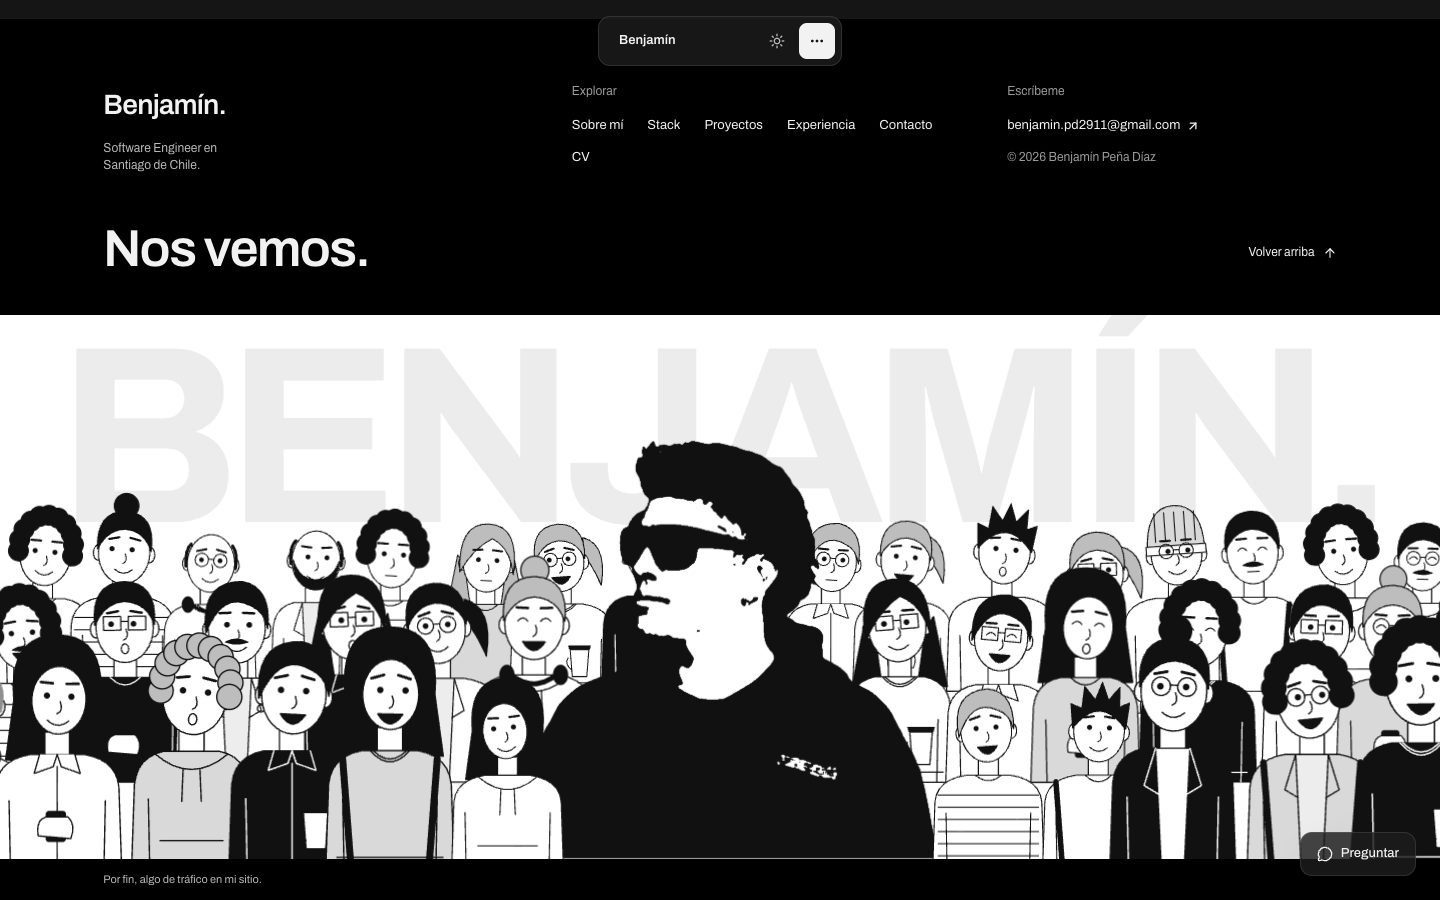
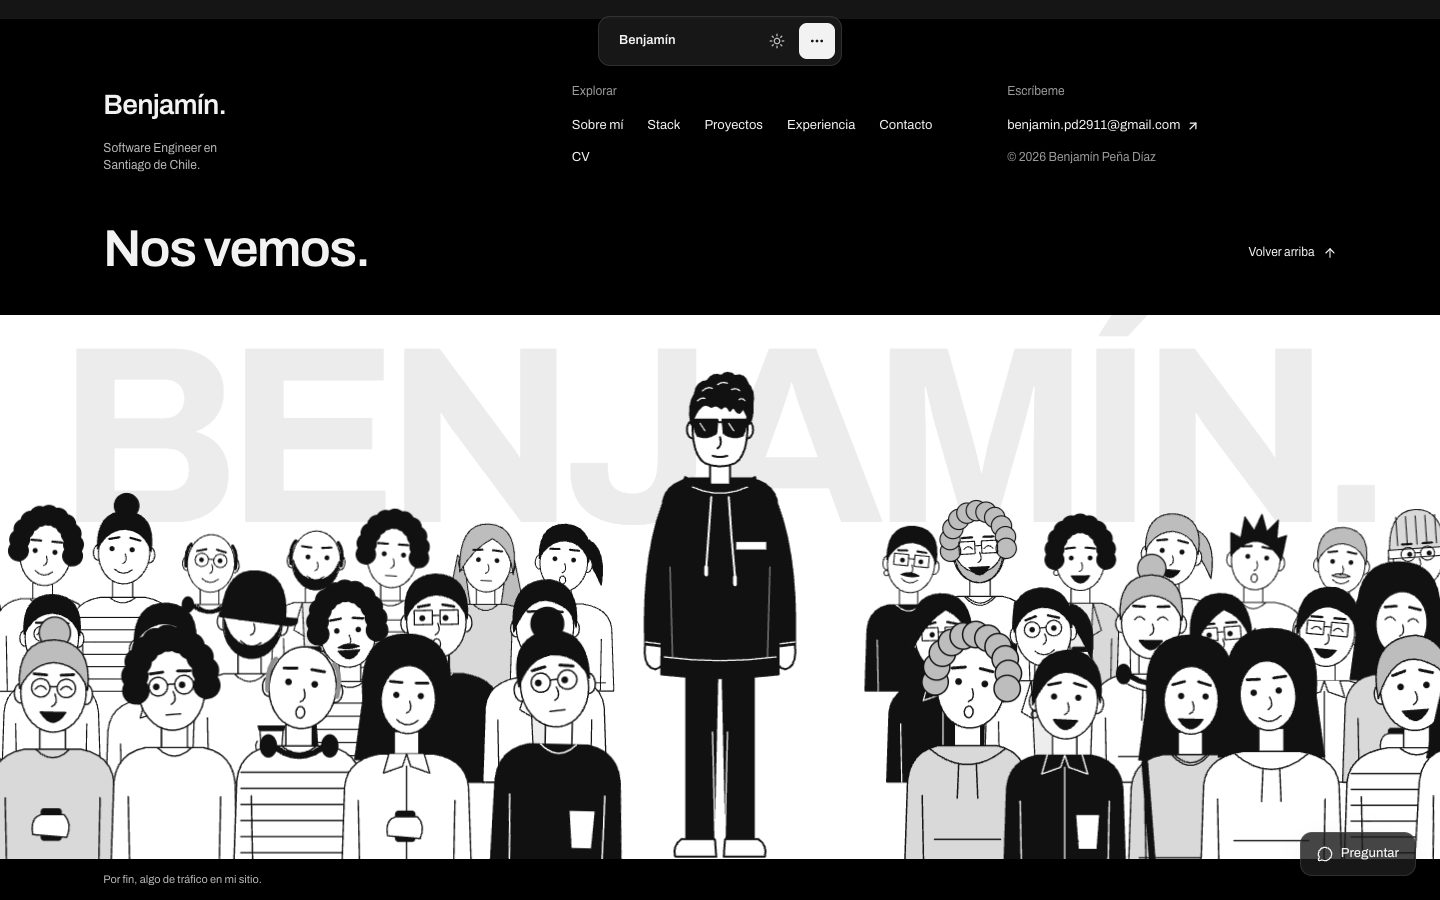
feat(v5): front-facing Benjamín, isolated, with people walking past
Draws him facing forward in the crowd's line style, based on his hillside
photo: short textured hair, rectangular sunglasses, hoodie with
drawstrings and the chest label. The crowd now leaves a clearing around
him, and three people keep walking across in front of him (a new person
each pass, with a slight step bob). Removes the stencil portrait and its
script. Reduced motion shows no walkers.

Changed region(s): [[0.0, 0.4044, 1.0, 0.9644]]

diff --git a/src/components/layout/Multitud.tsx b/src/components/layout/Multitud.tsx
@@ -8,8 +8,9 @@ import type { ReactNode } from "react";
  *
  * Gente dibujada a línea, en blanco y negro, generada aquí mismo con una
  * semilla (no es la ilustración del reel: cada persona sale de combinar
- * peinados, ropa, caras y accesorios). Benjamín va al centro, ilustrado en
- * tinta a partir de su foto: copete, lentes de sol y polerón negro.
+ * peinados, ropa, caras y accesorios). Benjamín va al centro, de frente y
+ * aislado, dibujado con el mismo trazo a partir de su foto; la gente pasa
+ * caminando por delante de él.
  *
  * - Al entrar en pantalla, las filas suben desde abajo, de atrás hacia
  *   adelante.
@@ -239,43 +240,105 @@ function DibujoPersona({ p }: { p: Persona }) {
   );
 }
 
-/** Proporción del retrato ilustrado (public/benjamin-ilustrado.png, 887 × 862). */
-const RETRATO = { w: 887, h: 862 };
+/**
+ * Benjamín de frente, con el mismo trazo que la multitud y sacado de su foto
+ * en el cerro: pelo corto oscuro y texturizado con un flequillo desordenado,
+ * lentes de sol rectangulares, polerón con capucha, cordones y la etiqueta
+ * blanca en el pecho. (0, 0) es el punto entre sus pies; mide ~400 de alto.
+ */
+function DibujoBenjamin() {
+  return (
+    <g strokeLinecap="round" strokeLinejoin="round" stroke={TINTA} strokeWidth={1.6}>
+      {/* piernas y zapatillas */}
+      <path d="M -27 -150 L -27 -14 L -5 -14 L -2 -150 Z M 2 -150 L 5 -14 L 27 -14 L 27 -150 Z" fill={TINTA} />
+      <path d="M -6 -100 L -4 -14 M 6 -100 L 4 -14" stroke={PAPEL} strokeWidth={1} />
+      <path d="M -31 -14 L -4 -14 L -3 0 L -36 0 Q -38 -9 -31 -14 Z M 4 -14 L 31 -14 Q 38 -9 36 0 L 3 0 Z" fill={PAPEL} />
+      {/* brazos (mangas) y manos */}
+      <path d="M -46 -282 Q -62 -240 -60 -170 L -44 -168 Q -44 -226 -38 -256 Z M 46 -282 Q 62 -240 60 -170 L 44 -168 Q 44 -226 38 -256 Z" fill={TINTA} />
+      <path d="M -60 -172 L -44 -170 M 60 -172 L 44 -170" stroke={PAPEL} strokeWidth={1} />
+      <path d="M -60 -170 Q -62 -152 -52 -150 Q -43 -152 -44 -168 Z M 60 -170 Q 62 -152 52 -150 Q 43 -152 44 -168 Z" fill={PAPEL} />
+      {/* polerón */}
+      <path d="M -46 -280 Q -46 -298 -24 -303 L 24 -303 Q 46 -298 46 -280 L 47 -146 Q 0 -140 -47 -146 Z" fill={TINTA} />
+      <path d="M -45 -160 Q 0 -154 45 -160" fill="none" stroke={PAPEL} strokeWidth={1} />
+      <path d="M -40 -232 L -38 -160 M 40 -232 L 38 -160" fill="none" stroke={PAPEL} strokeWidth={0.8} opacity={0.6} />
+      {/* etiqueta blanca del pecho */}
+      <rect x={13} y={-252} width={24} height={6} fill={PAPEL} stroke="none" />
+      {/* cuello */}
+      <path d="M -8 -318 L -8 -298 L 8 -298 L 8 -318" fill={PAPEL} />
+      {/* capucha alrededor del cuello */}
+      <path d="M -28 -304 Q -34 -290 -18 -282 Q 0 -274 18 -282 Q 34 -290 28 -304 Q 14 -296 0 -296 Q -14 -296 -28 -304 Z" fill={TINTA} />
+      <path d="M -22 -296 Q 0 -286 22 -296" fill="none" stroke={PAPEL} strokeWidth={1} />
+      {/* cordones con sus puntas */}
+      <path d="M -7 -288 Q -9 -260 -11 -232 M 7 -288 Q 9 -256 12 -224" fill="none" stroke={PAPEL} strokeWidth={1.6} />
+      <path d="M -11 -232 L -11 -226 M 12 -224 L 12 -218" stroke={PAPEL} strokeWidth={3} />
+      {/* orejas y cara */}
+      <ellipse cx={-22} cy={-342} rx={4.5} ry={7} fill={PAPEL} />
+      <ellipse cx={22} cy={-342} rx={4.5} ry={7} fill={PAPEL} />
+      <path d="M -22 -350 Q -23 -322 -12 -315 Q 0 -310 12 -315 Q 23 -322 22 -350 Q 22 -372 0 -373 Q -22 -372 -22 -350 Z" fill={PAPEL} />
+      {/* pelo corto texturizado: volumen arriba, flequillo desordenado, lados cortos */}
+      <path
+        d="M -23 -346 Q -26 -362 -20 -371 Q -19 -380 -10 -381 Q -6 -388 1 -385 Q 6 -390 12 -385 Q 20 -387 22 -379 Q 28 -373 26 -362 Q 27 -352 23 -346 Q 22 -356 18 -359 Q 16 -353 13 -357 Q 11 -362 8 -357 Q 5 -363 1 -359 Q -3 -363 -7 -360 Q -11 -363 -14 -361 Q -20 -357 -23 -346 Z"
+        fill={TINTA}
+      />
+      <path d="M -14 -373 q 4 -4 8 -2 M -2 -378 q 4 -3 8 -1 M 9 -374 q 4 -2 7 1 M -18 -365 q 3 -3 6 -2 M 15 -366 q 3 -2 5 1" fill="none" stroke={PAPEL} strokeWidth={1} />
+      {/* lentes de sol rectangulares */}
+      <path d="M -21 -350 L -2 -350 L -3 -339 Q -10 -334 -18 -337 Q -21 -342 -21 -350 Z M 2 -350 L 21 -350 Q 21 -342 18 -337 Q 10 -334 3 -339 Z" fill={TINTA} />
+      <path d="M -2 -348 L 2 -348 M -21 -349 L -23 -347 M 21 -349 L 23 -347" />
+      <path d="M -16 -347 L -12 -341 M 7 -347 L 11 -341" stroke={PAPEL} strokeWidth={1} />
+      {/* nariz, boca seria y mentón */}
+      <path d="M 0 -336 Q 2 -329 -2 -327" fill="none" />
+      <path d="M -6 -321 Q 0 -319 6 -321" fill="none" />
+    </g>
+  );
+}
+
+/** Alto y ancho de Benjamín en sus coordenadas locales. */
+const BENJA = { alto: 392, ancho: 124 };
 
 type Lugar = { id: number; x: number; y: number; s: number; fila: number };
 
 function armar(W: number, H: number, semilla: number) {
   const k = H / 480;
   const centro = W / 2;
-  // Benjamín: el retrato ilustrado, apoyado abajo al centro.
-  const benjaAlto = Math.min(H * 0.78, (W * 0.62 * RETRATO.h) / RETRATO.w);
-  const benjaAncho = (benjaAlto * RETRATO.w) / RETRATO.h;
+  // Benjamín, de pie al centro y aislado: la gente deja un claro a su
+  // alrededor, como en el reel.
+  const benjaEscala = Math.min((H * 0.9) / BENJA.alto, k * 1.18);
+  const claro = BENJA.ancho * benjaEscala;
   const lugares: Lugar[] = [];
   const filas = [
-    { y: H - 150 * k, s: 0.95 * k, paso: 74 * k, fila: 0 },
-    { y: H - 70 * k, s: 1.08 * k, paso: 86 * k, fila: 1 },
-    { y: H + 6 * k, s: 1.25 * k, paso: 100 * k, fila: 2 },
+    { y: H - 150 * k, s: 0.95 * k, paso: 74 * k, fila: 0, hueco: claro * 0.95 },
+    { y: H - 70 * k, s: 1.08 * k, paso: 86 * k, fila: 1, hueco: claro * 1.15 },
+    { y: H + 6 * k, s: 1.25 * k, paso: 100 * k, fila: 2, hueco: claro * 1.4 },
   ];
   const r = azar(semilla);
   let id = 0;
   for (const f of filas) {
     let x = -f.paso * (0.2 + r() * 0.5);
     while (x < W + f.paso) {
-      const hueco = f.fila === 2 ? benjaAncho * 0.42 : f.fila === 1 ? benjaAncho * 0.22 : 0;
-      if (Math.abs(x - centro) > hueco) {
+      if (Math.abs(x - centro) > f.hueco) {
         const s = f.s * (r() < 0.12 && f.fila === 2 ? 0.78 : 0.94 + r() * 0.12);
         lugares.push({ id: id++, x: x + (r() - 0.5) * f.paso * 0.3, y: f.y, s, fila: f.fila });
       }
       x += f.paso * (0.85 + r() * 0.3);
     }
   }
-  return { lugares, k, benja: { x: centro - benjaAncho / 2, y: H - benjaAlto, w: benjaAncho, h: benjaAlto } };
+  // Gente que pasa caminando por delante de él, de un lado al otro.
+  const caminantes = [0, 1, 2].map((i) => ({
+    i,
+    s: 1.32 * k * (0.92 + r() * 0.12),
+    y: H + 12 * k,
+    sentido: i % 2 === 0 ? 1 : -1,
+    duracion: (W + 320 * k) / ((52 + r() * 26) * k),
+    retraso: -r() * 18 - i * 6,
+  }));
+  return { lugares, k, centro, benjaEscala, caminantes };
 }
 
 export function Multitud({ trafico, descripcion }: { trafico: string; descripcion: string }) {
   const caja = useRef<HTMLDivElement>(null);
   const [tam, setTam] = useState<{ W: number; H: number } | null>(null);
   const [semillas, setSemillas] = useState<number[]>([]);
+  const [paseantes, setPaseantes] = useState<number[]>([777, 31337, 4242]);
   const [visible, setVisible] = useState(false);
   const [quieta, setQuieta] = useState(false);
 
@@ -305,7 +368,6 @@ export function Multitud({ trafico, descripcion }: { trafico: string; descripcio
   const plano = tam ? armar(tam.W, tam.H, 2911) : null;
   const total = plano?.lugares.length ?? 0;
 
-  // Una semilla por lugar; se conservan al cambiar de tamaño.
   useEffect(() => {
     if (!total) return;
     setSemillas((prev) => Array.from({ length: total }, (_, i) => prev[i] ?? 1000 + i * 7919));
@@ -333,6 +395,23 @@ export function Multitud({ trafico, descripcion }: { trafico: string; descripcio
     });
   }
 
+  const fila = (n: number) =>
+    plano!.lugares
+      .filter((l) => l.fila === n)
+      .map((l) => (
+        <g key={l.id} transform={`translate(${l.x} ${l.y}) scale(${l.s})`}>
+          <g
+            className="persona"
+            style={{ ["--fila" as string]: n, ["--retraso" as string]: `${(l.id % 9) * 0.05}s` }}
+            onClick={() => cambiar(l.id)}
+          >
+            <g key={semillas[l.id]} className="persona__entra">
+              {semillas[l.id] !== undefined ? <DibujoPersona p={crearPersona(semillas[l.id])} /> : null}
+            </g>
+          </g>
+        </g>
+      ));
+
   return (
     <div className="banda-ciudad relative overflow-hidden">
       <p aria-hidden="true" className="marca-agua pointer-events-none absolute left-1/2 top-[4%] -translate-x-1/2 select-none">
@@ -342,52 +421,42 @@ export function Multitud({ trafico, descripcion }: { trafico: string; descripcio
         ref={caja}
         role="img"
         aria-label={descripcion}
-        className={`multitud relative h-[clamp(20rem,40vw,34rem)] w-full ${visible || quieta ? "multitud--llega" : ""}`}
+        className={`multitud relative h-[clamp(20rem,40vw,34rem)] w-full ${visible || quieta ? "multitud--llega" : ""} ${visible && !quieta ? "multitud--camina" : ""}`}
       >
         {tam && plano ? (
           <svg aria-hidden="true" width={tam.W} height={tam.H} viewBox={`0 0 ${tam.W} ${tam.H}`} className="absolute inset-0 block">
-            {[0, 1].map((fila) =>
-              plano.lugares
-                .filter((l) => l.fila === fila)
-                .map((l) => (
-                  <g key={l.id} transform={`translate(${l.x} ${l.y}) scale(${l.s})`}>
-                    <g
-                      className="persona"
-                      style={{ ["--fila" as string]: fila, ["--retraso" as string]: `${(l.id % 9) * 0.05}s` }}
-                      onClick={() => cambiar(l.id)}
-                    >
-                      <g key={semillas[l.id]} className="persona__entra">
-                        {semillas[l.id] !== undefined ? <DibujoPersona p={crearPersona(semillas[l.id])} /> : null}
+            {fila(0)}
+            {fila(1)}
+            <g transform={`translate(${plano.centro} ${tam.H - 2 * plano.k}) scale(${plano.benjaEscala})`}>
+              <g className="persona persona--benja" style={{ ["--fila" as string]: 1.5, ["--retraso" as string]: "0.1s" }}>
+                <DibujoBenjamin />
+              </g>
+            </g>
+            {fila(2)}
+            {/* Los que pasan caminando por delante. Cada vuelta llega otra persona. */}
+            {quieta
+              ? null
+              : plano.caminantes.map((c) => (
+                  <g
+                    key={c.i}
+                    className="caminante"
+                    style={{
+                      ["--desde" as string]: `${c.sentido > 0 ? -160 * plano.k : tam.W + 160 * plano.k}px`,
+                      ["--hasta" as string]: `${c.sentido > 0 ? tam.W + 160 * plano.k : -160 * plano.k}px`,
+                      animationDuration: `${c.duracion}s`,
+                      animationDelay: `${c.retraso}s`,
+                    }}
+                    onAnimationIteration={() =>
+                      setPaseantes((prev) => prev.map((v, j) => (j === c.i ? Math.floor(Math.random() * 1e9) : v)))
+                    }
+                  >
+                    <g transform={`translate(0 ${c.y}) scale(${c.s})`}>
+                      <g className="caminante__paso">
+                        <DibujoPersona p={{ ...crearPersona(paseantes[c.i]), giro: c.sentido * 8 }} />
                       </g>
                     </g>
                   </g>
-                )),
-            )}
-            {/* Benjamín, ilustrado a partir de su foto (scripts/ilustrar-retrato.mjs) */}
-            <g className="persona persona--benja" style={{ ["--fila" as string]: 1.5, ["--retraso" as string]: "0.1s" }}>
-              <image
-                href="/benjamin-ilustrado.png"
-                x={plano.benja.x}
-                y={plano.benja.y}
-                width={plano.benja.w}
-                height={plano.benja.h}
-              />
-            </g>
-            {plano.lugares
-              .filter((l) => l.fila === 2)
-              .map((l) => (
-                <g key={l.id} transform={`translate(${l.x} ${l.y}) scale(${l.s})`}>
-                  <g
-                    className="persona"
-                    style={{ ["--fila" as string]: 2, ["--retraso" as string]: `${(l.id % 9) * 0.05}s` }}
-                    onClick={() => cambiar(l.id)}
-                  >
-                    <g key={semillas[l.id]} className="persona__entra">
-                      {semillas[l.id] !== undefined ? <DibujoPersona p={crearPersona(semillas[l.id])} /> : null}
-                    </g>
-                  </g>
-                </g>
-              ))}
+                ))}
           </svg>
         ) : null}
       </div>

diff --git a/src/app/globals.css b/src/app/globals.css
@@ -539,6 +539,30 @@
 @keyframes persona-llega {
   from { transform: translateY(105%); }
 }
+/* Los que pasan por delante: cruzan de un lado al otro con un leve vaivén. */
+.multitud .caminante {
+  transform: translateX(var(--desde));
+  visibility: hidden;
+}
+.multitud--camina .caminante {
+  visibility: visible;
+  animation-name: caminar;
+  animation-timing-function: linear;
+  animation-iteration-count: infinite;
+}
+.multitud .caminante__paso {
+  transform-box: fill-box;
+  transform-origin: 50% 100%;
+  animation: paso 0.55s ease-in-out infinite alternate;
+}
+@keyframes caminar {
+  from { transform: translateX(var(--desde)); }
+  to { transform: translateX(var(--hasta)); }
+}
+@keyframes paso {
+  from { transform: translateY(0) rotate(-1.5deg); }
+  to { transform: translateY(-3%) rotate(1.5deg); }
+}
 @media (prefers-reduced-motion: reduce) {
   .multitud .persona,
   .multitud .persona__entra { transform: none !important; animation: none !important; }

diff --git a/README.md b/README.md
@@ -32,8 +32,9 @@ pero es propia: no se copió la ilustración del reel (es arte de otra persona).
 8. **Pie:** banda negra con «Nos vemos.» y, abajo, la banda blanca con
    «BENJAMÍN.» gigante y una **multitud ilustrada a línea**, generada en SVG
    combinando peinados, ropa, caras y accesorios. Benjamín está al centro, de
-   ilustrado en tinta a partir de su foto (copete, lentes de sol y polerón negro;
-   `scripts/ilustrar-retrato.mjs`). Las filas suben al entrar,
+   de frente y aislado, dibujado con el mismo trazo a partir de su foto (pelo
+   corto texturizado, lentes de sol y polerón con cordones); la gente pasa
+   caminando por delante de él. Las filas suben al entrar,
    cada 2,4 s alguien se va y llega otra persona, al apuntar dan un saltito y un
    clic cambia a quien tocas. Cierra con «Por fin, algo de tráfico en mi sitio.».
 9. **Preguntar:** el «Ask AI» del reel, sin modelo detrás. Responde con los
